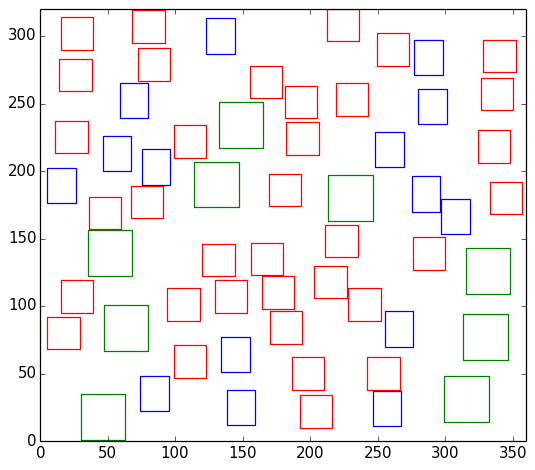
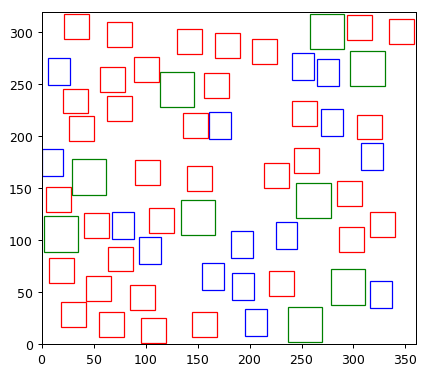
update random algoritme

Changed region(s): [[0.0, 0.0, 1.0, 0.9973]]

diff --git a/amstelhaegen_algoritme.py b/amstelhaegen_algoritme.py
@@ -13,9 +13,11 @@ import timeit
 
 start = timeit.default_timer()
 
-TOTAL_HOUSES = 60
+ITERATIONS = 100000
+TOTAL_HOUSES = 20
 X_DIMENSION = 360
 Y_DIMENSION = 320
+best_iteration = 0
 
 def pythagoras(x1, y1, x2, y2):
 	distance = np.sqrt((x2 - x1)**2 + (y2 - y1)**2)
@@ -48,10 +50,10 @@ def overlap(building1, building2):
 def h_build(buildings, h_counter):
 
 
-	xrandom = random.randint(0, X_DIMENSION - classes.house.width)
-	yrandom = random.randint(0, Y_DIMENSION - classes.house.length)
+	xrandom = random.randint(0, X_DIMENSION - classes.House.width)
+	yrandom = random.randint(0, Y_DIMENSION - classes.House.length)
 
-	house = classes.house(xrandom, yrandom)
+	house = classes.House(xrandom, yrandom)
 
 	olap = True
 	for building in buildings:
@@ -62,16 +64,16 @@ def h_build(buildings, h_counter):
 
 	if not olap:
 		buildings.append(house)
-		drawBuilding(house, house.left_bottom[0], house.left_bottom[1], 'red')
+		# drawBuilding(house, house.left_bottom[0], house.left_bottom[1], 'red')
 		h_counter += 1
 
 	return buildings, h_counter
 
 def b_build(buildings, b_counter):
 
-	xrandom = random.randint(0, X_DIMENSION - classes.bungalow.width)
-	yrandom = random.randint(0, Y_DIMENSION - classes.bungalow.length)
-	bungalow = classes.bungalow(xrandom, yrandom)
+	xrandom = random.randint(0, X_DIMENSION - classes.Bungalow.width)
+	yrandom = random.randint(0, Y_DIMENSION - classes.Bungalow.length)
+	bungalow = classes.Bungalow(xrandom, yrandom)
 
 	olap = True
 	for building in buildings:
@@ -82,16 +84,16 @@ def b_build(buildings, b_counter):
 
 	if not olap:
 		buildings.append(bungalow)
-		drawBuilding(bungalow, bungalow.left_bottom[0], bungalow.left_bottom[1], 'blue')
+		# drawBuilding(bungalow, bungalow.left_bottom[0], bungalow.left_bottom[1], 'blue')
 		b_counter += 1
 
 	return buildings, b_counter
 
 def m_build(buildings, m_counter):
 
-	xrandom = random.randint(0, X_DIMENSION - classes.maison.width)
-	yrandom = random.randint(0, Y_DIMENSION - classes.maison.length)
-	maison = classes.maison(xrandom, yrandom)
+	xrandom = random.randint(0, X_DIMENSION - classes.Maison.width)
+	yrandom = random.randint(0, Y_DIMENSION - classes.Maison.length)
+	maison = classes.Maison(xrandom, yrandom)
 
 	olap = True
 	for building in buildings:
@@ -102,7 +104,7 @@ def m_build(buildings, m_counter):
 
 	if not olap:
 		buildings.append(maison)
-		drawBuilding(maison, maison.left_bottom[0], maison.left_bottom[1], 'green')
+		# drawBuilding(maison, maison.left_bottom[0], maison.left_bottom[1], 'green')
 		m_counter += 1
 
 	return buildings, m_counter
@@ -212,68 +214,72 @@ def closest_distance(current_building, buildings):
 
 	return closest
 
-
-
 if __name__ == "__main__":
 
-	fig1 = plt.figure()
-	ax1 = fig1.add_subplot(111, aspect='equal')
-	ax1.set_xlim(0,360)
-	ax1.set_ylim(0,320)
+	for i in range(ITERATIONS):
 
-	# fill building array with a house at a random point
-	buildings = []
+		# fill building array with a house at a random point
+		buildings = []
 
-	# append first house to array 'buildings'
-	buildings.append(classes.house(X_DIMENSION, Y_DIMENSION))
+		# append first house to array 'buildings'
+		buildings.append(classes.House(X_DIMENSION, Y_DIMENSION))
 
-	# set number of each building type
-	h_number = 0.6 * TOTAL_HOUSES
-	b_number = 0.25 * TOTAL_HOUSES
-	m_number = 0.15 * TOTAL_HOUSES
+		# set number of each building type
+		h_number = 0.6 * TOTAL_HOUSES
+		b_number = 0.25 * TOTAL_HOUSES
+		m_number = 0.15 * TOTAL_HOUSES
 
-    # create counters to count number of each building
-	h_counter, b_counter, m_counter = 0, 0, 0
+	    # create counters to count number of each building
+		h_counter, b_counter, m_counter = 0, 0, 0
 
-	# build houses until maximum is reached
-	while len(buildings) < TOTAL_HOUSES:
+		# build houses until maximum is reached
+		while len(buildings) < TOTAL_HOUSES:
 
-        # choose random building type
-		building_type = random.choice(['house', 'bungalow', 'maison'])
+	        # choose random building type
+			building_type = random.choice(['house', 'bungalow', 'maison'])
 
-		if building_type == 'house' and h_counter < h_number:
-			buildings, h_counter = h_build(buildings, h_counter)
+			if building_type == 'house' and h_counter < h_number:
+				buildings, h_counter = h_build(buildings, h_counter)
 
-		if building_type == 'bungalow' and b_counter < b_number:
-			buildings, b_counter = b_build(buildings, b_counter)
+			if building_type == 'bungalow' and b_counter < b_number:
+				buildings, b_counter = b_build(buildings, b_counter)
 
-		if building_type == 'maison' and m_counter < m_number:
-			buildings, m_counter = m_build(buildings, m_counter)
+			if building_type == 'maison' and m_counter < m_number:
+				buildings, m_counter = m_build(buildings, m_counter)
 
-    # safe figure
-	fig1.savefig('rect1.png', dpi=90, bbox_inches='tight')
+	    # delete first house from array
+		buildings.pop(0)
 
-    # delete first house from array
-	buildings.pop(0)
+	    # calculate closest distance to buildings
+		counter = 0
+		total_value = 0
+		for current_building in buildings:
+			counter += 1
+			closest = closest_distance(current_building, buildings)
+			total_value += current_building.score(closest)
 
-    # calculate closest distance to buildings
-	counter = 0
-	total_value = 0
-	for current_building in buildings:
-		counter += 1
-		closest = closest_distance(current_building, buildings)
-		total_value += current_building.score(closest)
+		if total_value > best_iteration:
+			best_iteration = total_value
 
+			fig1 = plt.figure()
+			ax1 = fig1.add_subplot(111, aspect='equal')
+			ax1.set_xlim(0,360)
+			ax1.set_ylim(0,320)
 
-		print counter
-		print "current_building is ", current_building
-		print "closest is", closest
-		print "dus waarde van dit huis is", current_building.score(closest), "\n"
+			for building in buildings:
+				if building.name == 'house':
+					drawBuilding(building, building.left_bottom[0], building.left_bottom[1], 'red')
+				if building.name == 'bungalow':
+					drawBuilding(building, building.left_bottom[0], building.left_bottom[1], 'blue')
+				if building.name == 'maison':
+					drawBuilding(building, building.left_bottom[0], building.left_bottom[1], 'green')
 
-	print "TOTAL VALUE AMSTELHAEGEN = ", round(total_value, 2), "EURO\n"
-	locale.setlocale(locale.LC_ALL, '')
-	print locale.currency(total_value, grouping=True)
+			# safe figure
+			fig1.savefig('best_random.png', dpi=90, bbox_inches='tight')
+
+		print total_value
+		print best_iteration
 
 	stop = timeit.default_timer()
-
-	print stop - start
+	print "De tijd is: ", stop - start
+	print "De hoogste score is: ", best_iteration

diff --git a/classes.py b/classes.py
@@ -1,4 +1,5 @@
-class house:
+class House:
+	name = 'house'
 	length = 24
 	width = 24
 	price = 285000
@@ -25,7 +26,8 @@ class house:
 		return value
 
 
-class bungalow:
+class Bungalow:
+	name = 'bungalow'
 	length = 21
 	width = 26
 	price = 399000
@@ -50,7 +52,8 @@ class bungalow:
 		return value
 
 
-class maison:
+class Maison:
+	name = 'maison'
 	length = 33
 	width = 34
 	price = 610000
